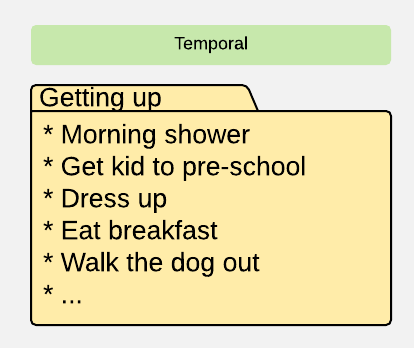
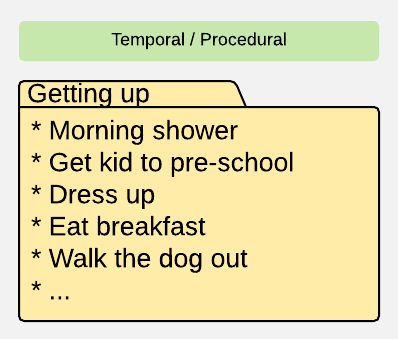
Procedural - bad pic

Changed region(s): [[0.0302, 0.236, 0.9648, 0.9735], [0.0302, 0.059, 0.9648, 0.2065]]

diff --git a/demos/coupling.html b/demos/coupling.html
@@ -154,10 +154,10 @@
           <div class="wrap">
             <div class="text-context content-left">
               <h1><strong>Passionate Alchemist</strong></h1>
-            </div>            
+            </div>
           </div>
           <!-- .end .wrap -->
-        </section>        
+        </section>
         <section class="bg-red">
           <span class="background dark" style="background-image:url('../static/images/bgrounds/road.jpg')"></span>
           <div class="wrap size-70">
@@ -189,7 +189,7 @@
             <div class="text-context content-left">
               <h1><strong>Awwww ...</strong></h1>
               <h1><strong>Greenfields ...</strong></h1>
-            </div>            
+            </div>
           </div>
           <!-- .end .wrap -->
         </section>
@@ -277,7 +277,7 @@
           <div class="wrap">
             <div class="text-context content-right">
               <h1><strong>Boundaries</strong></h1>
-            </div>            
+            </div>
           </div>
           <!-- .end .wrap -->
         </section>
@@ -297,9 +297,8 @@
               </div>
               <p>&nbsp;</p>
               <div class="aligncenter" style="width: auto; padding-top: 20px;" >
-                <img style="height: 360px" src="../static/images/diagrams/cohesion_logical.png" alt="Logical cohesion">
-                <img style="height: 360px" src="../static/images/diagrams/cohesion_temporal.png" alt="Temporal cohesion">
-                <img style="height: 360px" src="../static/images/diagrams/cohesion_procedural.png" alt="Procedural cohesion">
+                <img style="height: 400px" src="../static/images/diagrams/cohesion_logical.png" alt="Logical cohesion">
+                <img style="height: 400px" src="../static/images/diagrams/cohesion_temporal.png" alt="Temporal cohesion">
               </div>
             </div>
           </div>
@@ -350,7 +349,7 @@
             <div class="text-context content-left">
               <h1><strong>Size Does Matter</strong></h1>
               <h3>or rather: scale does</h3>
-            </div>            
+            </div>
           </div>
           <!-- .end .wrap -->
         </section>
@@ -365,7 +364,7 @@
                 <img style="height: 540px" src="../static/images/diagrams/scaling_demand.png" alt="Demand scaling">
                 <img style="height: 540px" src="../static/images/diagrams/scaling_project.png" alt="Project scaling">
               </div>
-              <div class="alignleft hashtags">#traditional #typical #modelagnostic</div>         
+              <div class="alignleft hashtags">#traditional #typical #modelagnostic</div>
             </div>
           </div>
           <!-- .end .wrap -->
@@ -426,10 +425,10 @@
           <div class="wrap">
             <div class="text-context content-left">
               <h1><strong>Domain Shredding</strong></h1>
-            </div>            
+            </div>
           </div>
           <!-- .end .wrap -->
-        </section>        
+        </section>
         <section class="bg-gray">
           <div class="wrap">
             <div class="alignleft title text-context">COUPLING VS SCALING #4</div>
@@ -455,7 +454,7 @@
                 </li>
               </ol>
             </div>
-            <div class="alignleft hashtags">#circular #automation #workaround</div>            
+            <div class="alignleft hashtags">#circular #automation #workaround</div>
           </div>
           <!-- .end .wrap -->
         </section>
@@ -484,7 +483,7 @@
                 </li>
               </ul>
             </div>
-            <div class="alignleft hashtags">#multilevel #truemodel #aggregate #subdomain</div>            
+            <div class="alignleft hashtags">#multilevel #truemodel #aggregate #subdomain</div>
           </div>
           <!-- .end .wrap -->
         </section>
@@ -528,12 +527,12 @@
                     A <strong>calls</strong> B
                   </h4>
                 </li>
-                <li>                  
+                <li>
                   <h4>
                     A's <strong>internal service uses</strong> B
                   </h4>
                 </li>
-                <li>                 
+                <li>
                   <h4>
                     A <strong>derives from</strong> B
                   </h4>
@@ -553,7 +552,7 @@
               <p>&nbsp;</p>
               <div class="aligncenter" style="width: auto; padding-top: 20px;" >
                 <img style="min-height: auto; min-width: 1024px" src="../static/images/diagrams/coupling_vs_time.png" alt="Coupling VS Time">
-              </div              
+              </div
             </div>
             <div class="alignleft hashtags">#onesolution #provisioning #configserver #broker</div>
           </div>
@@ -599,10 +598,10 @@
           <div class="wrap">
             <div class="text-context content-right">
               <h1><strong>Context is KING</strong></h1>
-            </div>            
+            </div>
           </div>
           <!-- .end .wrap -->
-        </section>        
+        </section>
         <section class="bg-green">
           <div class="wrap">
             <div class="alignleft title text-context">COMMON COUPLING</div>
@@ -625,7 +624,7 @@
                   <h4>
                     X-centric design
                   </h4>
-                </li>                
+                </li>
               </ul>
             </div>
             <div class="alignleft hashtags">#workflow #coredomain</div>
@@ -638,10 +637,10 @@
           <div class="wrap">
             <div class="text-context content-right">
               <h1><strong>"Something-centric" Models</strong></h1>
-            </div>            
+            </div>
           </div>
           <!-- .end .wrap -->
-        </section>        
+        </section>
         <section class="bg-blue">
           <div class="wrap">
             <div class="alignleft title text-context">TEMPORAL COUPLING</div>
@@ -660,9 +659,14 @@
                     Time control is out of our control
                   </h4>
                 </li>
+                <li>
+                  <h4>
+                    Order is a factor (not visible in data/control flow)
+                  </h4>
+                </li>
               </ul>
             </div>
-            <div class="alignleft hashtags">#batchprocessing #polling #remotestate</div>
+            <div class="alignleft hashtags">#batchprocessing #initializers #orderassumptions</div>
           </div>
           <!-- .end .wrap -->
         </section>
@@ -723,22 +727,6 @@
           <div class="wrap aligncenter">
             <div style="display: inline-block">
               <div>
-                <p class="text-context alignleft">DATA & MESSAGE COUPLING</p>
-              </div>
-              <p>&nbsp;</p>
-              <div class="aligncenter" style="width: auto; padding-top: 20px;" >
-                <img style="height: 360px" src="../static/images/diagrams/coupling_data.png" alt="Data coupling">
-                <img style="height: 240px" src="../static/images/diagrams/coupling_message.png" alt="Message coupling">
-              </div>
-              <div class="alignleft hashtags">#loosecoupling #weaktyping #dynamicformat</div>
-            </div>
-          </div>
-          <!-- .end .wrap -->
-        </section>
-        <section class="bg-gray">
-          <div class="wrap aligncenter">
-            <div style="display: inline-block">
-              <div>
                 <p class="text-context alignleft">TECHNOLOGY COUPLING</p>
               </div>
               <p>&nbsp;</p>
@@ -779,7 +767,23 @@
                 </li>
               </ul>
             </div>
-            <div class="alignleft hashtags">#4records #xsystemhardcode #magicalsequence</div>
+            <div class="alignleft hashtags">#4records #xsystemhardcode #expressiveness #compensation</div>
+          </div>
+          <!-- .end .wrap -->
+        </section>
+        <section class="bg-gray">
+          <div class="wrap aligncenter">
+            <div style="display: inline-block">
+              <div>
+                <p class="text-context alignleft">DATA & MESSAGE COUPLING</p>
+              </div>
+              <p>&nbsp;</p>
+              <div class="aligncenter" style="width: auto; padding-top: 20px;" >
+                <img style="height: 360px" src="../static/images/diagrams/coupling_data.png" alt="Data coupling">
+                <img style="height: 240px" src="../static/images/diagrams/coupling_message.png" alt="Message coupling">
+              </div>
+              <div class="alignleft hashtags">#loosecoupling #weaktyping #dynamicformat</div>
+            </div>
           </div>
           <!-- .end .wrap -->
         </section>
@@ -797,7 +801,7 @@
           <div class="wrap">
             <div class="text-context content-left">
               <h1><strong>Symptoms:</strong></h1>
-            </div>            
+            </div>
             <div class="flex-content size-90 alignright halftransparent">
               <ol class="fancy">
                 <li>
@@ -826,10 +830,10 @@
                   </h3>
                 </li>
               </ol>
-            </div>            
+            </div>
           </div>
           <!-- .end .wrap -->
-        </section>               
+        </section>
         <section class="bg-gray">
           <div class="wrap aligncenter">
             <div style="display: inline-block">
@@ -871,7 +875,7 @@
               <div class="aligncenter" style="width: auto; padding-top: 20px;" >
                 <img style="height: 480px" src="../static/images/diagrams/hell_circular.png" alt="Circular dependencies">
               </div>
-              <div class="alignleft hashtags">#aproblemor</div>              
+              <div class="alignleft hashtags">#aproblemor</div>
             </div>
           </div>
           <!-- .end .wrap -->
@@ -896,7 +900,7 @@
                 </li>
               </ul>
             </div>
-            <div class="alignleft hashtags">#publictoopublic</div>              
+            <div class="alignleft hashtags">#publictoopublic</div>
           </div>
           <!-- .end .wrap -->
         </section>
@@ -941,7 +945,7 @@
               <div class="aligncenter" style="width: auto; padding-top: 20px;" >
                 <img src="../static/images/diagrams/autonomy_format.png" alt="Format autonomy">
               </div>
-              <div class="alignleft hashtags">#contract #format #standard</div>              
+              <div class="alignleft hashtags">#contract #format #standard</div>
             </div>
           </div>
           <!-- .end .wrap -->
@@ -956,7 +960,7 @@
               <div class="aligncenter" style="width: auto; padding-top: 20px;" >
                 <img src="../static/images/diagrams/autonomy_platform.png" alt="Platform autonomy">
               </div>
-              <div class="alignleft hashtags">#protocol #language</div>              
+              <div class="alignleft hashtags">#protocol #language</div>
             </div>
           </div>
           <!-- .end .wrap -->
@@ -1283,10 +1287,10 @@
           <div class="wrap">
             <div class="text-context content-right">
               <h1><strong>Final Lap</strong></h1>
-            </div>            
+            </div>
           </div>
           <!-- .end .wrap -->
-        </section>                
+        </section>
         <section class="bg-gray">
           <span class="background dark" style="background-image:url('../static/images/bgrounds/takeaway.png')"></span>
           <div class="wrap size-80">
@@ -1307,7 +1311,7 @@
                 </li>
                 <li>
                   <h4>Think in contracts (on all levels)</h4>
-                </li>               
+                </li>
               </ul>
             </div>
             <div class="aligncenter text-landing" style="width: auto">
